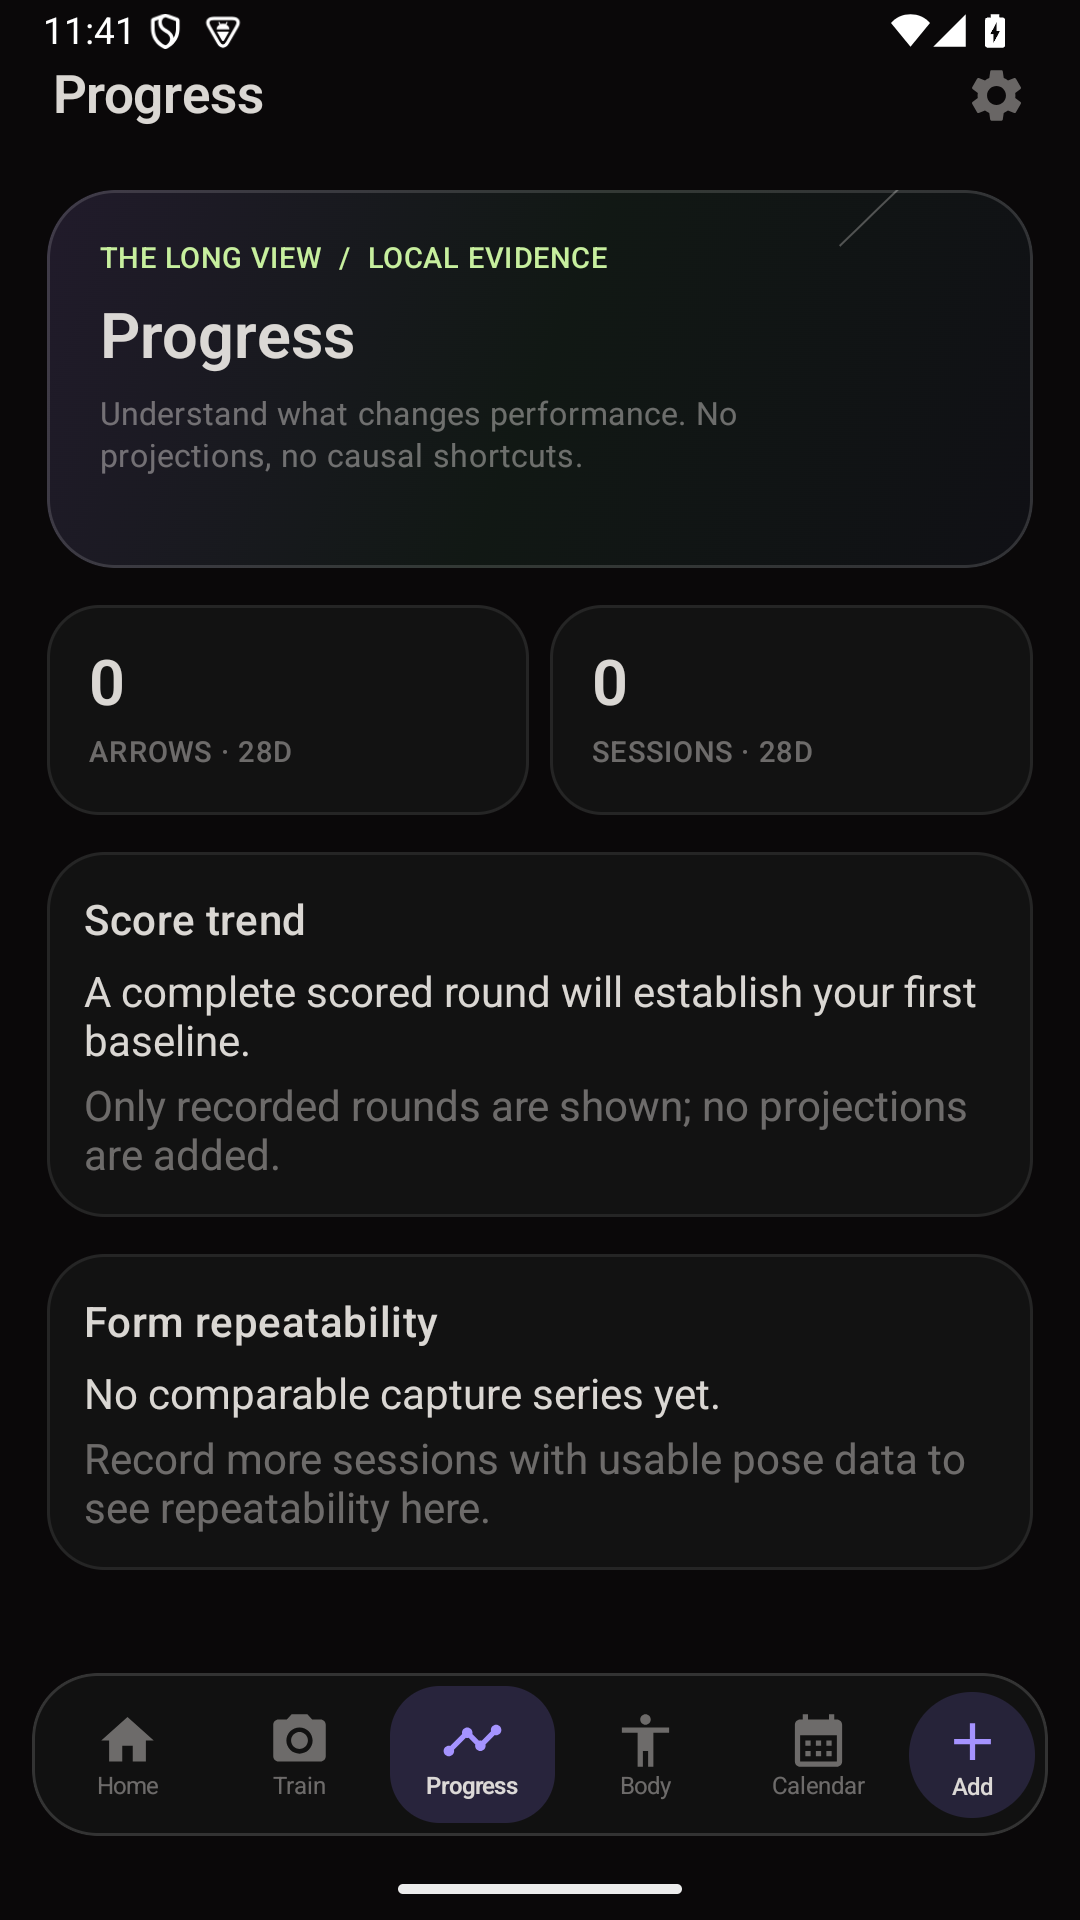
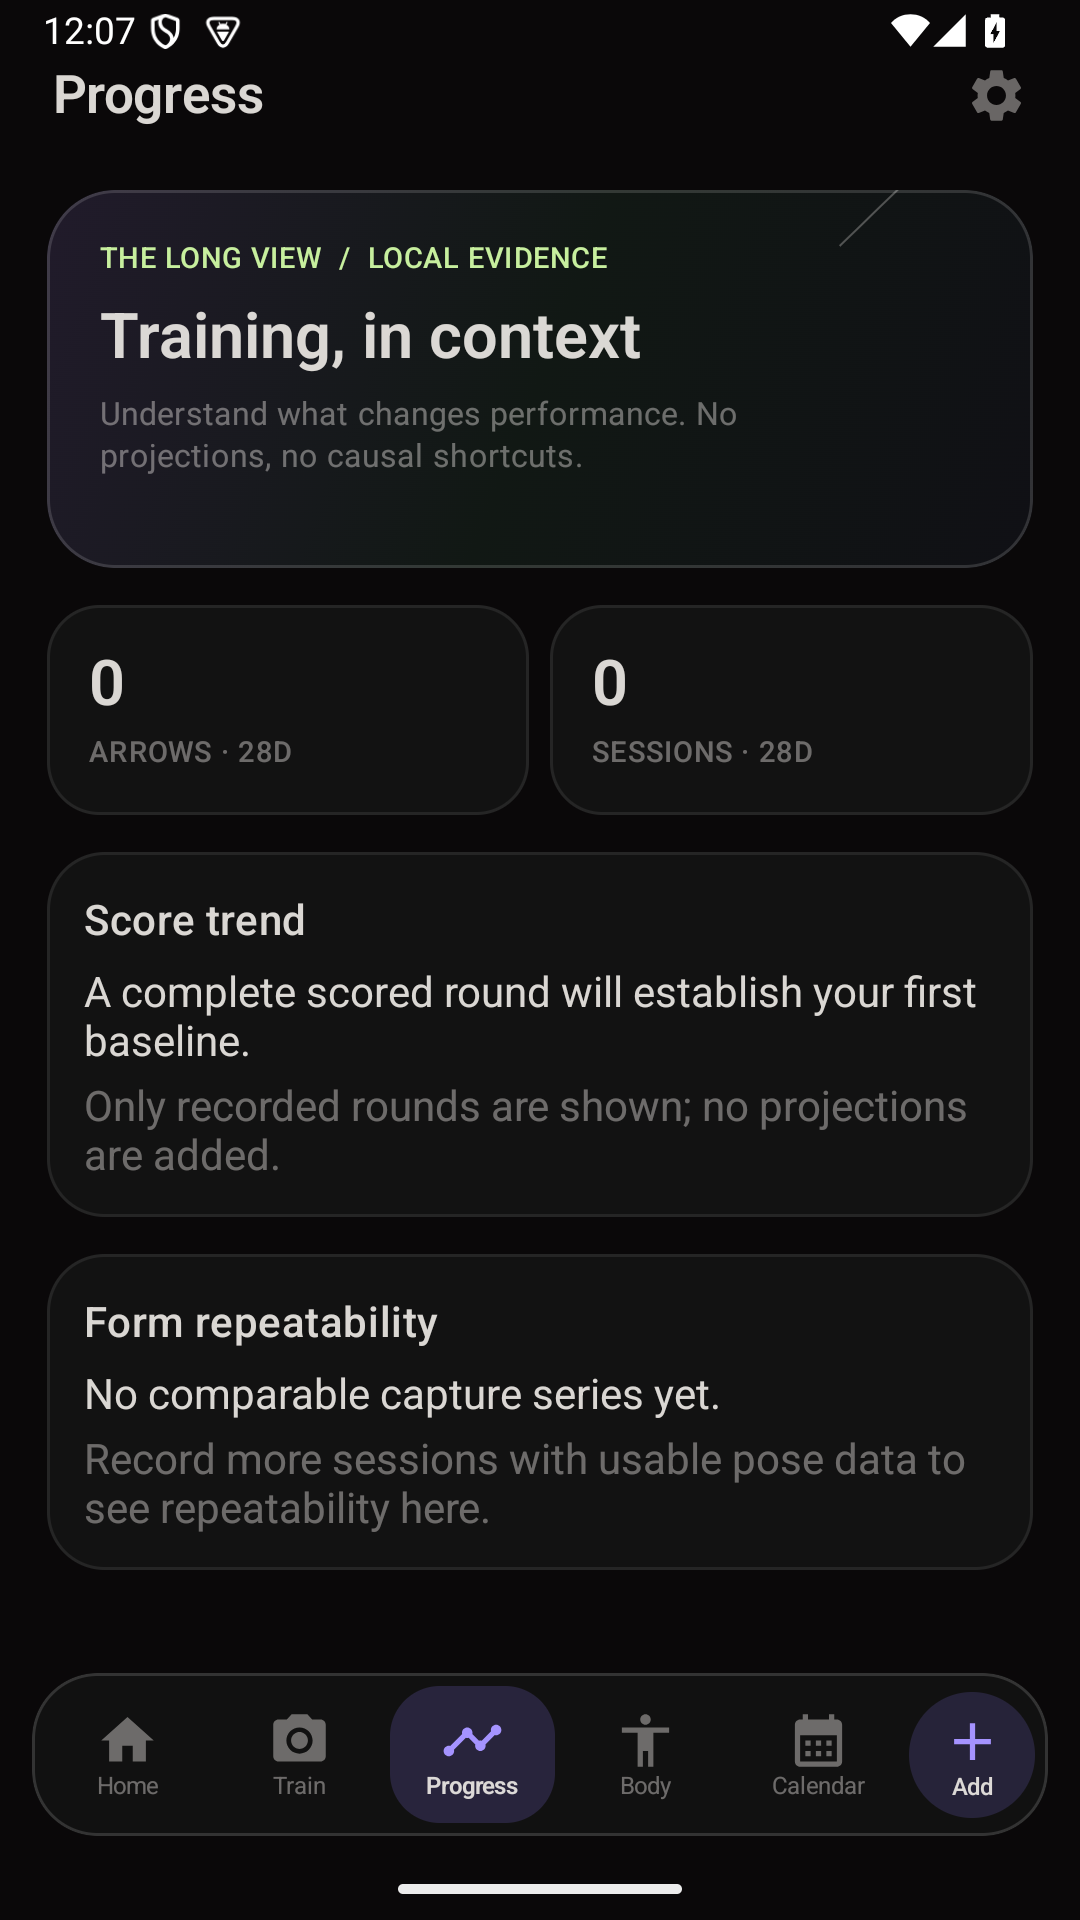
feat(android): refine progress editorial hierarchy

Changed region(s): [[0.0917, 0.1562, 0.6111, 0.2188], [0.0611, 0.0, 0.1222, 0.0312]]

diff --git a/app-android/src/main/kotlin/xyz/mdhv/formanalyser/app/ui/ProgressScreen.kt b/app-android/src/main/kotlin/xyz/mdhv/formanalyser/app/ui/ProgressScreen.kt
@@ -242,7 +242,11 @@ private fun ProgressHeader() {
             verticalArrangement = Arrangement.spacedBy(8.dp),
         ) {
             Text("THE LONG VIEW  /  LOCAL EVIDENCE", color = Hyle.RadiumGreen, style = MaterialTheme.typography.labelSmall)
-            Text("Progress", color = Hyle.OnBackground, style = MaterialTheme.typography.headlineMedium)
+            Text(
+                "Training, in context",
+                color = Hyle.OnBackground,
+                style = MaterialTheme.typography.headlineMedium,
+            )
             Text(
                 "Understand what changes performance. No projections, no causal shortcuts.",
                 color = Hyle.OnSurfaceDim,

diff --git a/app-android/src/androidTest/kotlin/xyz/mdhv/formanalyser/app/ProductionSmokeTest.kt b/app-android/src/androidTest/kotlin/xyz/mdhv/formanalyser/app/ProductionSmokeTest.kt
@@ -84,6 +84,7 @@ class ProductionSmokeTest {
                 assertTextEventually(instrumentation, "Choose a round or enter distance to begin.")
 
                 clickBottomTabEventually(instrumentation, "Progress")
+                assertTextEventually(instrumentation, "Training, in context")
                 assertTextEventually(
                     instrumentation,
                     "Understand what changes performance. No projections, no causal shortcuts.",

diff --git a/docs/crocodyl/PRODUCTION_STATUS.md b/docs/crocodyl/PRODUCTION_STATUS.md
@@ -1,6 +1,6 @@
 # Crocodyl production status
 
-Last reviewed: 2026-10-10
+Last reviewed: 2026-10-11
 
 Visual-system follow-up (2026-10-10): Home now uses the bundled, provenance-checked Recurve photo
 with an editorial scrim; action cards are more compact, repeated readiness copy is removed, the
@@ -236,19 +236,21 @@ pass 44/44 each. Session startup also rejects duplicate requests while a start o
 flight, and setup navigation occurs only for an accepted start.
 
 Current-tree QA artifact (2026-10-10): minified APK/AAB `0.6.0-train-guidance-qa`, versionCode
-654, includes the current Recurve source, Progress evidence-empty-state refresh, and higher-contrast
-Train setup guidance when the primary action is disabled. Release preflight passed. APK SHA-256
[2 lines of base64/hex data omitted]
+Current-tree QA artifact (2026-10-11): minified APK/AAB `0.6.0-progress-editorial-qa`, versionCode
+655, includes the current Recurve source, Train first-run readiness guidance, and Progress hero-title
+deduplication. Release preflight passed. APK SHA-256
[3 lines of base64/hex data omitted]
 Connected debug and QA-signed minified-release instrumentation each pass 7/7 on API-35 ARM64
 `emulator-5554`, including accessibility checks for the Train first-run guidance and Progress
-empty states. These results are emulator/build evidence, not physical-device/range acceptance.
-QA signing only; production signing remains open.
+empty states plus the new editorial heading. Clean root/Android tests pass in 104 actionable tasks;
+full release lint passes in 54 tasks. These results are emulator/build evidence, not
+physical-device/range acceptance. QA signing only; production signing remains open.
 
 | Area | Current status | Evidence / remaining gate |
 |---|---|---|
-| Recurve Android build | QA production candidate | Current-tree versionCode 654 QA APK/AAB preflight passed; connected debug and QA-signed minified-release instrumentation pass 7/7 each on API-35 ARM64. Production signer and physical acceptance remain open. |
+| Recurve Android build | QA production candidate | Current-tree versionCode 655 QA APK/AAB preflight passed; connected debug and QA-signed minified-release instrumentation pass 7/7 each on API-35 ARM64. Production signer and physical acceptance remain open. |
 | Data safety and recovery | Implemented and tested | Room recovery, checksum-manifested database backups restricted to the app-private recovery root, atomic exports, vault staging cleanup, manifest/checksum and privacy filtering are covered by tests and release checks. |
 | Equipment Atelier | Implemented for current arrow-first visual scope | Component-separated arrow library, variants and mobile/desktop previews are committed. Owner/device visual review remains a release-quality gate. |
 | Fencing | Scaffold only | Sabre/Foil/Epee metadata and manual referee console are present. Automatic two-fencer adjudication is roadmap work. |

diff --git a/docs/crocodyl/RELEASE_ACCEPTANCE_CHECKLIST.md b/docs/crocodyl/RELEASE_ACCEPTANCE_CHECKLIST.md
@@ -206,13 +206,13 @@ The QA APK also installs, completes onboarding and opens Home; visual inspection
 Recurve/Fencing photo cards render in the feed. QA signer only; physical device/range acceptance
 remains.
 
-Current visual-refresh QA build (2026-10-10): `0.6.0-train-guidance-qa` / versionCode 654. The
+Current visual-refresh QA build (2026-10-11): `0.6.0-progress-editorial-qa` / versionCode 655. The
 minified APK/AAB passed `tools/release/verify_android_release.sh` with QA/debug certificate SHA-256
[3 lines of base64/hex data omitted]
-QA/debug-signed minified-release instrumentation pass 7/7 each, including Train guidance and
-Progress empty-state accessibility checks. The QA key is not the production signer;
[2 lines of base64/hex data omitted]
+QA/debug-signed minified-release instrumentation pass 7/7 each, including Train guidance, Progress
+empty-state and editorial-heading accessibility checks. The QA key is not the production signer;
 physical-device/range acceptance remains open.
 
 Paired-session walkthrough coverage: 2026-09-24, tester: Codex. Added a Robolectric test for the
@@ -286,11 +286,11 @@ leaks private data, or leaves the user unable to recover without clearing app st
       GradleDependency advisory warnings remain for dependency-version review.
 - [x] All repository workflows use immutable third-party action commit SHAs; CI and release run
       `tools/release/verify_workflow_actions.py` to prevent mutable refs from returning.
-- [x] Current-tree QA APK/AAB (`0.6.0-train-guidance-qa`, versionCode 654) passed release artifact
+- [x] Current-tree QA APK/AAB (`0.6.0-progress-editorial-qa`, versionCode 655) passed release artifact
       preflight; connected debug and QA/debug-signed minified-release instrumentation each passed
       7/7 on API-35 ARM64 `emulator-5554` (2026-10-10). This includes Android decoding checks for
-      sport photos and Progress evidence-empty-state accessibility checks. APK/AAB digests and
-      44/44 debug/release unit-test evidence are recorded above. QA signing is not production
+      sport photos and Progress evidence-empty-state/editorial-heading accessibility checks.
+      APK/AAB digests and full Android unit-test evidence are recorded above. QA signing is not production
       signing or physical-device matrix acceptance.
 - [ ] Release APK/AAB are built by CI with the production keystore and requested version metadata.
 - [ ] CI verifies APK signature, AAB signature, manifest security, bundled BlazePose hash, backup

diff --git a/CROCODYL_BUILD_NOTES.md b/CROCODYL_BUILD_NOTES.md
@@ -3,19 +3,18 @@
 Consolidated notes for the multi-phase build. (Deviation from the per-phase `PHASEn_NOTES.md`
 convention: this is one autonomous build across Phases 1–3, so notes are consolidated here.)
 
-2026-10-10 Train first-run guidance and visual evidence: the persistent disabled Start action now
-explains that a round or positive distance is required, uses higher-contrast Hyle text, and is
-covered by the connected accessibility smoke test. API-35 ARM64 connected debug and minified-release
-instrumentation pass 7/7 each; `lintVitalRelease` passed during artifact assembly. The API-35
-1080×1920 captures for Train and Progress are checked in under
-`docs/crocodyl/visuals/screenshots/`. QA APK/AAB `0.6.0-train-guidance-qa`, versionCode 654,
-passed release preflight; APK SHA-256
[2 lines of base64/hex data omitted]
-only, not production signing or physical-device acceptance. See
-`docs/crocodyl/visuals/CINEMATIC_APP_REFRESH.md`.
+2026-10-11 Progress hierarchy follow-up: removed the duplicate “Progress” title from the hero card;
+it now reads “Training, in context,” with a connected accessibility assertion. The updated screenshot
+is archived at `docs/crocodyl/visuals/screenshots/progress-cinematic-refresh-api35.png`. Clean
+`./gradlew test -PwithAndroid`, `:app-android:lintRelease`, debug connected tests and QA-signed
+minified-release connected tests all passed (7/7 connected tests each). QA APK/AAB
+`0.6.0-progress-editorial-qa`, versionCode 655, passed release preflight; APK SHA-256
[2 lines of base64/hex data omitted]
+not production signing or physical-device acceptance. Full test/contract replay from this work
+session is recorded below; see `docs/crocodyl/visuals/CINEMATIC_APP_REFRESH.md`.
 
-2026-10-10 full-tree regression replay: `./gradlew test -PwithAndroid --offline --no-daemon` passed
+2026-10-11 full-tree regression replay: `./gradlew test -PwithAndroid --offline --no-daemon` passed
 (104 actionable tasks; root JVM and Android debug/release unit-test variants). A separate
 `:app-android:lintRelease` replay passed (54 actionable tasks). Repository contracts passed: release
 17/17, shared checkout 4/4, desktop viewer 10/10, Community Directory 4/4, Atelier authored assets

diff --git a/docs/crocodyl/MOTION_SESSIONS_HANDOFF.md b/docs/crocodyl/MOTION_SESSIONS_HANDOFF.md
@@ -355,7 +355,7 @@ Before implementation, record an owner decision for each:
   API-35 emulator captures in `docs/crocodyl/visuals/screenshots/`. Other destinations remain
   unfinished. See `docs/crocodyl/visuals/CINEMATIC_APP_REFRESH.md`; this is separate from
   motion-analysis validity. Use licensed actual photography only; no AI-generated imagery.
-- Last recorded Recurve QA build: `0.6.0-train-guidance-qa`, versionCode 654, QA signer, not
+- Last recorded Recurve QA build: `0.6.0-progress-editorial-qa`, versionCode 655, QA signer, not
   production approved. Production keystore/CI signing, physical-device/range matrix and owner
   release sign-off remain outstanding.
 
